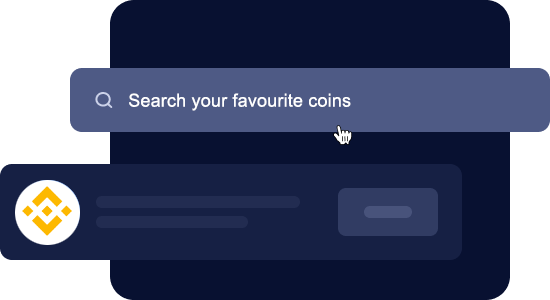
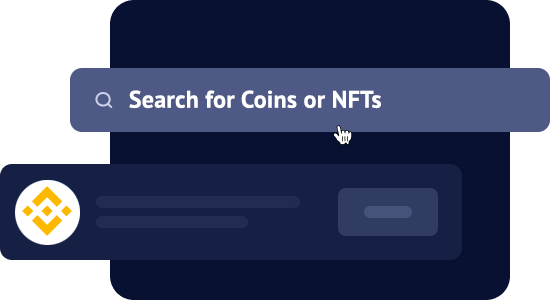
fourth

Changed region(s): [[0.2164, 0.3, 0.7109, 0.36]]

diff --git a/index.html b/index.html
@@ -10,7 +10,7 @@
     <!-- ===============================================-->
     <!--    Document Title-->
     <!-- ===============================================-->
-    <title>Back Trade || Decentralised CashBack System</title>
+    <title>Back Trade || Decentralized CashBack System</title>
 
 
     <!-- ===============================================-->
@@ -61,10 +61,10 @@
         <div class="container">
           <div class="row align-items-center">
             <div class="col-md-9 col-lg-8 col-xl-5">
-              <h1 class="display-3 lh-sm">World's first decentralised cashback system</h1>
+              <h1 class="display-3 lh-sm">World's first decentralized cash back system</h1>
             </div>
             <div class="col-md-9 col-xl-5">
-              <p class="fs-2" style="color:#ccc"><strong>Back Trade</strong> is the first cashback system for the DeFi that will fully reimburse every thing you buy on the blockchain, no matter what.<br><br><strong>Buy your favourite Coins or NFT.<br>Get 100% BACK.</strong></p>
+              <p class="fs-2" style="color:#ccc"><strong>Back Trade</strong> is the first cash back system for the DeFi. Our solution will be able to fully reimburse everything you buy on the blockchain, no matter what it is.<br><br><strong>Buy your favourite Coins or NFTs.<br>Get 100% BACK.</strong></p>
               <a href="#how"><button class="btn btn-secondary mt-3">Learn more <span class="fas fa-arrow-down"></span></button></a>
               <a href="https://backtrade.medium.com/back-trade-lite-paper-99f81fbeda2" target="_blank"><button class="btn btn-primary mt-3">Lite Paper</button></a>
             </div>
@@ -143,7 +143,7 @@
                   <div class="col-md-7 col-lg-6 order-md-1"><img class="w-100" src="assets/img/gallery/comment3.png" alt="..." /></div>
                   <div class="col-md-5 col-lg-4">
                     <h3 class="fs-xl-7 fs-lg-4 fs-md-3 mt-5 mt-md-0">Go to our website</h3>
-                    <p class="fs-xl-1 ls-3 pe-xl-2"> Our interface will support nearly every token that you love, this because we are simply aggregating any other DEXes or dApps.</p>
+                    <p class="fs-xl-1 ls-3 pe-xl-2"> Our interface will support nearly every token that you love! We achieve this by simply aggregating other DEXes or dApps.</p>
                   </div>
                 </div>
                 <div class="px-xl-8 px-md-7">
@@ -153,7 +153,7 @@
                   <div class="col-md-7 col-lg-6 false"><img class="w-100" src="assets/img/gallery/comment1.png" alt="..." /></div>
                   <div class="col-md-5 col-lg-4">
                     <h3 class="fs-xl-7 fs-lg-4 fs-md-3 mt-5 mt-md-0">Buy whatever you want</h3>
-                    <p class="fs-xl-1 ls-3 pe-xl-2"> Each time you will buy something, our smart contracr will record how much did you spend, gas included. So don't worry anymore about high gas fees.</p>
+                    <p class="fs-xl-1 ls-3 pe-xl-2"> Each time you buy something, our smart contract will record how much you spend, gas included, so you don’t have to worry anymore about high gas fees.</p>
                   </div>
                 </div>
                 <div class="px-xl-8 px-md-7">
@@ -163,7 +163,7 @@
                   <div class="col-md-7 col-lg-6 order-md-1"><img class="w-100" src="assets/img/gallery/comment2.png" alt="..." /></div>
                   <div class="col-md-5 col-lg-4">
                     <h3 class="fs-xl-7 fs-lg-4 fs-md-3 mt-5 mt-md-0">Claim your chashback</h3>
-                    <p class="fs-xl-1 ls-3 pe-xl-2"> Every week you will be able to claim up to the 100% of what you spent. This will depend on how much BACK tokens you are holding in your wallet.</p>
+                    <p class="fs-xl-1 ls-3 pe-xl-2"> Every week you will be able to claim up to the 100% of what you spend. The cash you get back will depend on how many BACK tokens you are holding in your wallet.</p>
                   </div>
                 </div>
                 <div class="px-xl-8 px-md-7">
@@ -204,7 +204,7 @@
               <div class="border rounded-1 border-700 h-100 features-items">
                 <div class="p-5">
                   <h3 class="pt-3 lh-base">50%: Claimable</h3>
-                  <p class="mb-0">These tokens will be reserved to be claimable by BACK holders in the initial phase of our project. This pool will be replenished automatically by the tax applied on any BACK transaction.</p>
+                  <p class="mb-0">These tokens will be reserved to be claimable by BACK holders after the platform will be published. This pool will be replenished automatically thanks to the tax applied on any BACK transaction by design.</p>
                 </div>
               </div>
             </div>
@@ -212,7 +212,7 @@
               <div class="border rounded-1 border-700 h-100 features-items">
                 <div class="p-5">
                   <h3 class="pt-3 lh-base">30%: Farmable</h3>
-                  <p class="mb-0">You will be able to farm BACK tokens by staking other cryptos on our platform during the initial phase. There will be a farming fee on each deposit, this will be immediately converted and used as liquidity.</p>
+                  <p class="mb-0">You will be able to farm BACK tokens by staking other cryptos on our platform during the initial phase. There will be a 3% farming fee on each deposit which will be immediately converted in BNB and used as liquidity.</p>
                 </div>
               </div>
             </div>
@@ -222,7 +222,7 @@
               <div class="border rounded-1 border-700 h-100 features-items">
                 <div class="p-5">
                   <h3 class="pt-3 lh-base">10%: Liquidity</h3>
-                  <p class="mb-0">These tokens will be used as liquidity in conjunction with the farming pool fees, creating the BACK/BNB pool. This will help the first movers to buy BACK tokens without a huge price impact, attracting more people.</p>
+                  <p class="mb-0">These tokens will be used as liquidity in conjunction with the farming pool fees, feeding the BACK/BNB pool. This will help the first movers to buy BACK tokens without a huge price impact, attracting more people.</p>
                 </div>
               </div>
             </div>
@@ -230,7 +230,7 @@
               <div class="border rounded-1 border-700 h-100 features-items">
                 <div class="p-5">
                   <h3 class="pt-3 lh-base">5%: Team</h3>
-                  <p class="mb-0">Theese tokens will be used to reward the Back Trade Team, and they will be released linearly for 6 months. This will ensure a fair initial distribution and will avoid any dump.</p>
+                  <p class="mb-0">These tokens will be used to reward the Back Trade Team, and they will be released linearly for 6 months. This will ensure a fair initial distribution and avoid any dump.</p>
                 </div>
               </div>
             </div>
@@ -240,7 +240,7 @@
               <div class="border rounded-1 border-700 h-100 features-items">
                 <div class="p-5">
                   <h3 class="pt-3 lh-base">4%: Partnerships</h3>
-                  <p class="mb-0">Partnerships with other big companies or influencers will be carried out thanks to these funds. The Team will be open to hear the community to decide who to partner with.</p>
+                  <p class="mb-0">Partnerships with other project, influencers or advisors will be carried out thanks to these funds. The Back Trade Team will be open to take feedback from the community to decide who to partner with.</p>
                 </div>
               </div>
             </div>
@@ -248,7 +248,7 @@
               <div class="border rounded-1 border-700 h-100 features-items">
                 <div class="p-5">
                   <h3 class="pt-3 lh-base">1%: Airdrop</h3>
-                  <p class="mb-0">We need to kickstart loudly our project, so we decided to allocate a small portion of the tokens total supply to an airdrop, to gather the first users and get known.</p>
+                  <p class="mb-0">We need to loudly kickstart our project, so we decided to allocate a small portion of the tokens’ total supply to an airdrop to gather the first users and make ourselves known.</p>
                 </div>
               </div>
             </div>
@@ -295,7 +295,7 @@
         <div class="container">
           <div class="row">
             <div class="col-xl-5 pt-2 pt-xl-0 text-end text-xl-end">
-              <p class="mb-0">&copy; BackTrade team</p>
+              <p class="mb-0">&copy; Back Trade team</p>
             </div>
             <div class="col-xl-3 text-center text-xl-start">
               <a href="https://discord.gg/XWXFvUQDBb"><img class="footer-img me-xl-5 me-3" src="https://icon-library.com/images/discord-white-icon/discord-white-icon-13.jpg" alt="in" style="width:20px;height:20px;" /></a>
